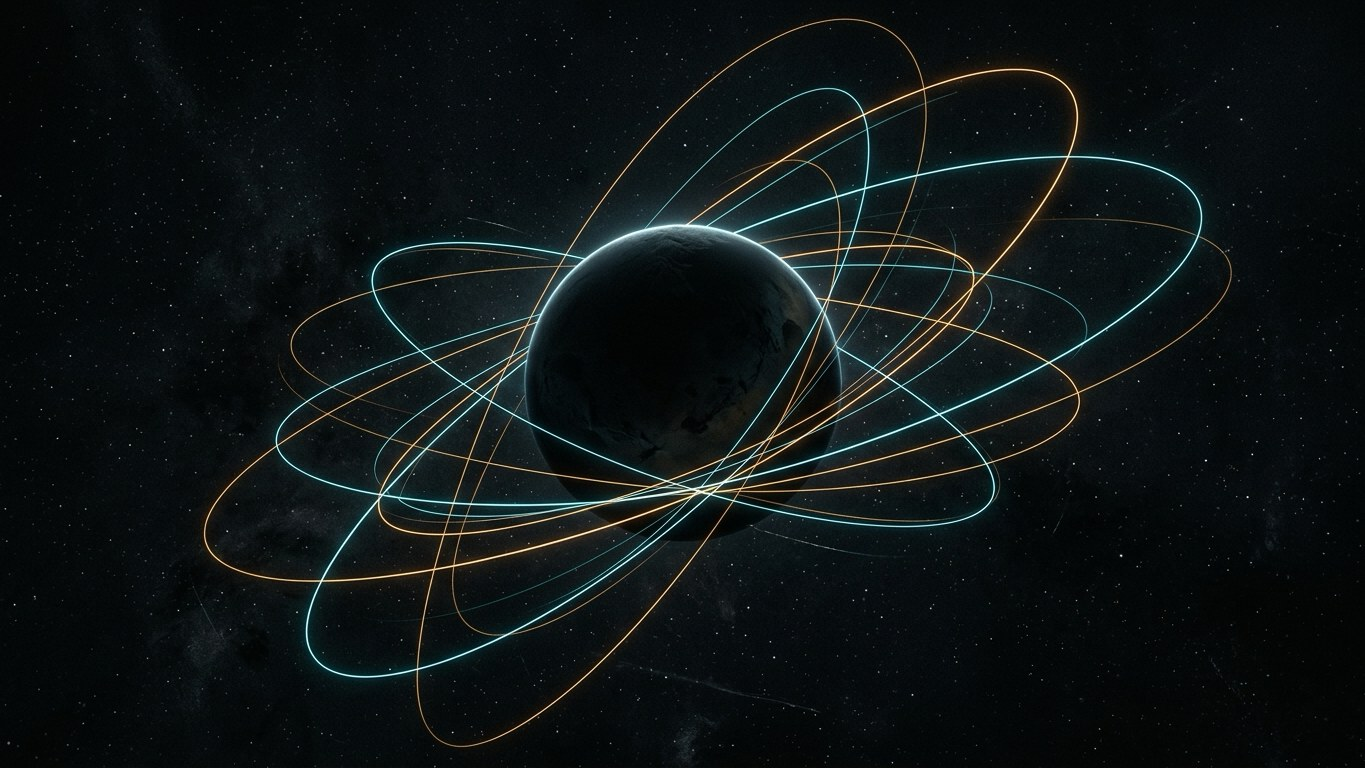
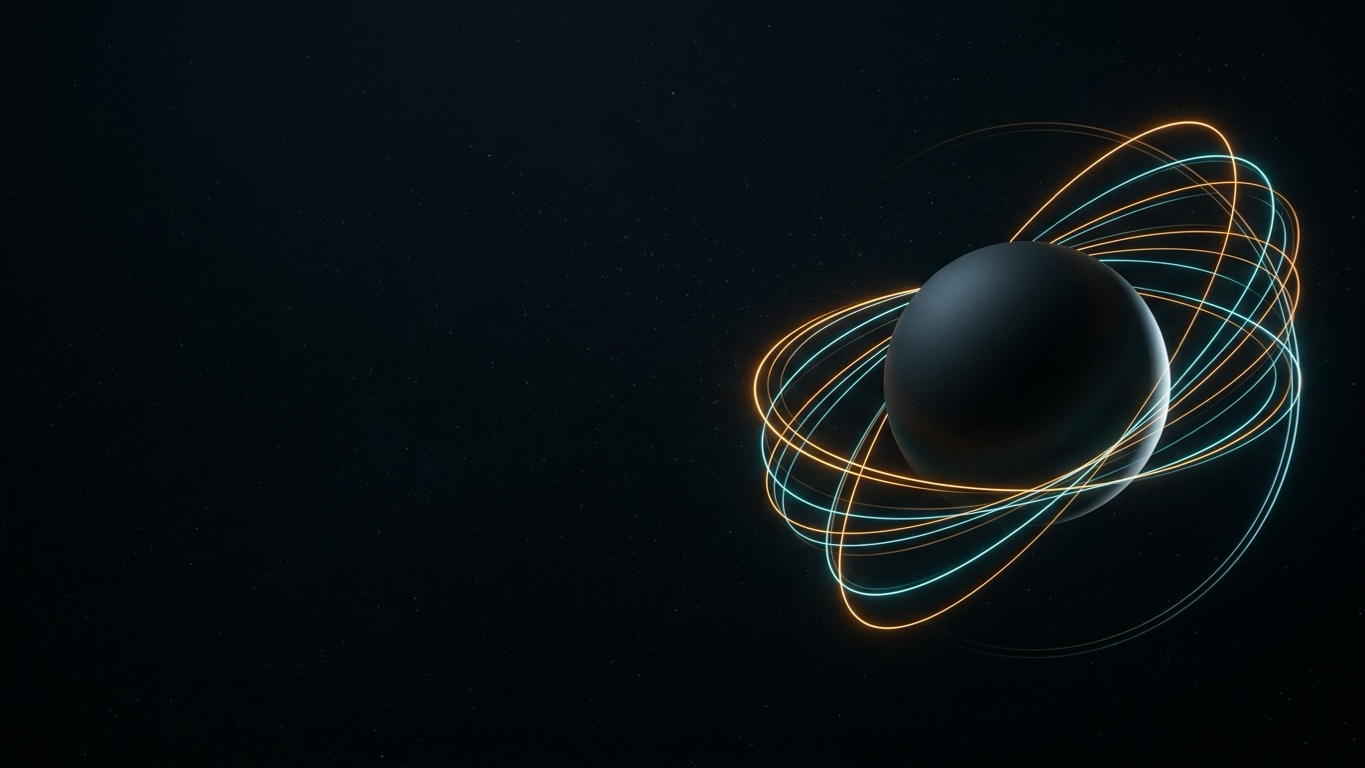
presentations: two more pictures in pack-c and replacements elsewhere
The image library is at 86 pictures: pack-c gains layers and nodes and loses
signal, and orbit, shield and path were regenerated. The counts in SKILL.md and
NOTICE, the manifest keywords and the prompts in references/library.md follow,
and the checksums, index and scan record were refreshed. Gate green.

diff --git a/packs/ibm/presentations/skills/deck-images/references/library.md b/packs/ibm/presentations/skills/deck-images/references/library.md
@@ -1,6 +1,6 @@
 # The picture library
 
-The pack ships 84 pictures in `assets/library`, generated by the pack authors from the prompts below, cropped to 16:9 and saved as JPEG of 20 to 300 KB: pack-a abstract vector, pack-b black and white photo art, pack-c dark technology, pack-d people at work, pack-e paper craft, pack-f desk objects, pack-g IBM-style isometric, pack-h IBM dark premium.
+The pack ships 86 pictures in `assets/library`, generated by the pack authors from the prompts below, cropped to 16:9 and saved as JPEG of 20 to 300 KB: pack-a abstract vector, pack-b black and white photo art, pack-c dark technology, pack-d people at work, pack-e paper craft, pack-f desk objects, pack-g IBM-style isometric, pack-h IBM dark premium.
 
 ## Rights, in three lines
 
@@ -65,9 +65,13 @@ For the cyber-steel and midnight concepts, and for platform or security decks. E
 | `mesh` | a slowly rotating wireframe sphere made of thin lines, off centre to the right |
 | `signal` | concentric rings expanding from a single point at the lower right corner |
 | `pipeline` | parallel light trails receding into darkness, converging near the horizon |
-| `shield` | a faceted translucent panel catching light at its edges, centred, dark around it |
+| `shield` | a faceted translucent geometric shield catching light at its edges, off centre to the right |
 | `datacentre` | a corridor of dark server racks with small indicator lights, deep perspective |
-| `orbit` | thin elliptical paths crossing around an unlit sphere |
+| `orbit` | thin elliptical paths crossing around an unlit sphere, off centre to the right |
+| `nodes` | an interconnected cluster of glowing data nodes and fine vector links in cyan and amber, off centre to the right |
+| `layers` | three horizontal translucent glass geometric planes stacked in perspective with luminous edge lighting, on the right |
+
+Covers with room for a headline: `orbit`, `shield`, `nodes`, `mesh`.
 
 ## Pack D: people at work, warm light
 

diff --git a/packs/ibm/presentations/skills/deck-images/SKILL.md b/packs/ibm/presentations/skills/deck-images/SKILL.md
@@ -42,7 +42,7 @@ Icons and patterns are SVG for the HTML deck. For the .pptx the builder uses the
 
 ## 4. The picture library ships with the skill
 
-`assets/library` holds 72 pictures in seven packs, made by the pack authors from the prompts in `references/library.md`: abstract vector (pack-a), black and white photo art (pack-b), dark technology (pack-c), people at work without faces (pack-d), paper craft (pack-e), desk objects (pack-f) and IBM-style isometric (pack-g). No search, no licence to chase; `assets/library/NOTICE` and `manifest.json` carry the provenance and the keywords.
+`assets/library` holds 86 pictures in eight packs, made by the pack authors from the prompts in `references/library.md`: abstract vector (pack-a), black and white photo art (pack-b), dark technology (pack-c), people at work without faces (pack-d), paper craft (pack-e), desk objects (pack-f), IBM-style isometric (pack-g) and IBM dark premium (pack-h). No search, no licence to chase; `assets/library/NOTICE` and `manifest.json` carry the provenance and the keywords.
 
 ```bash
 uv run --with pillow python scripts/visual_assets.py library --for-theme deck/theme.json
